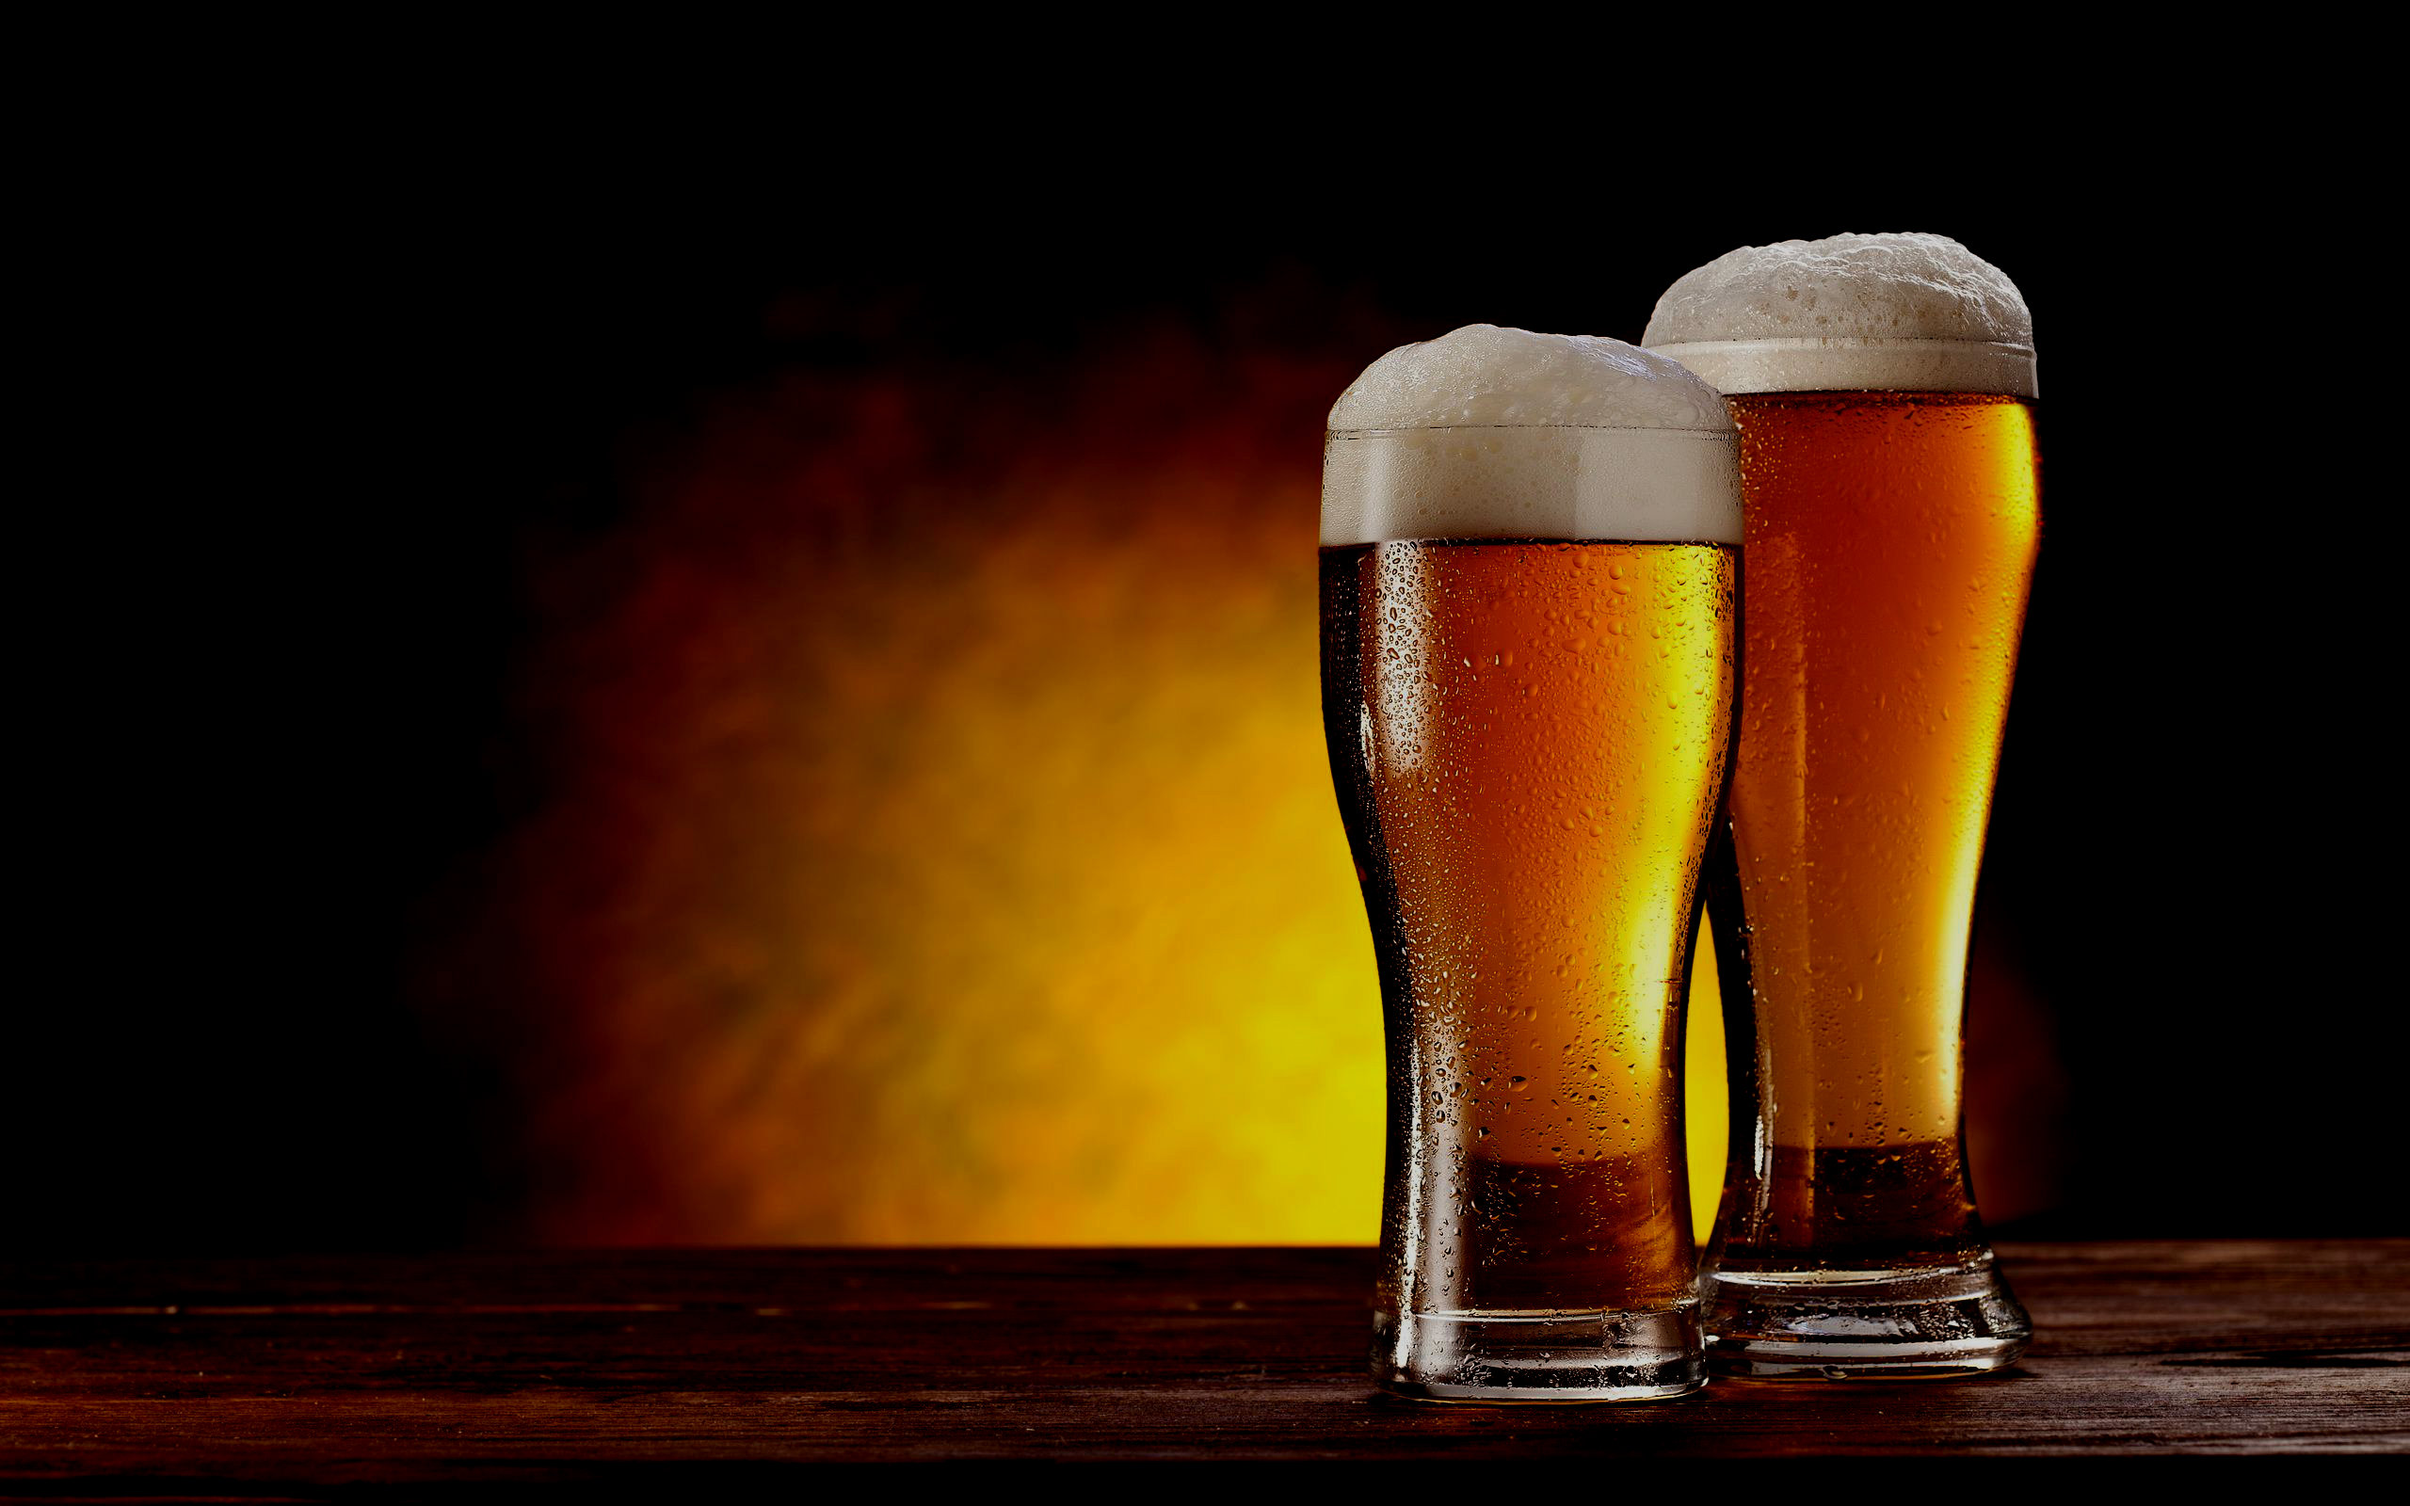
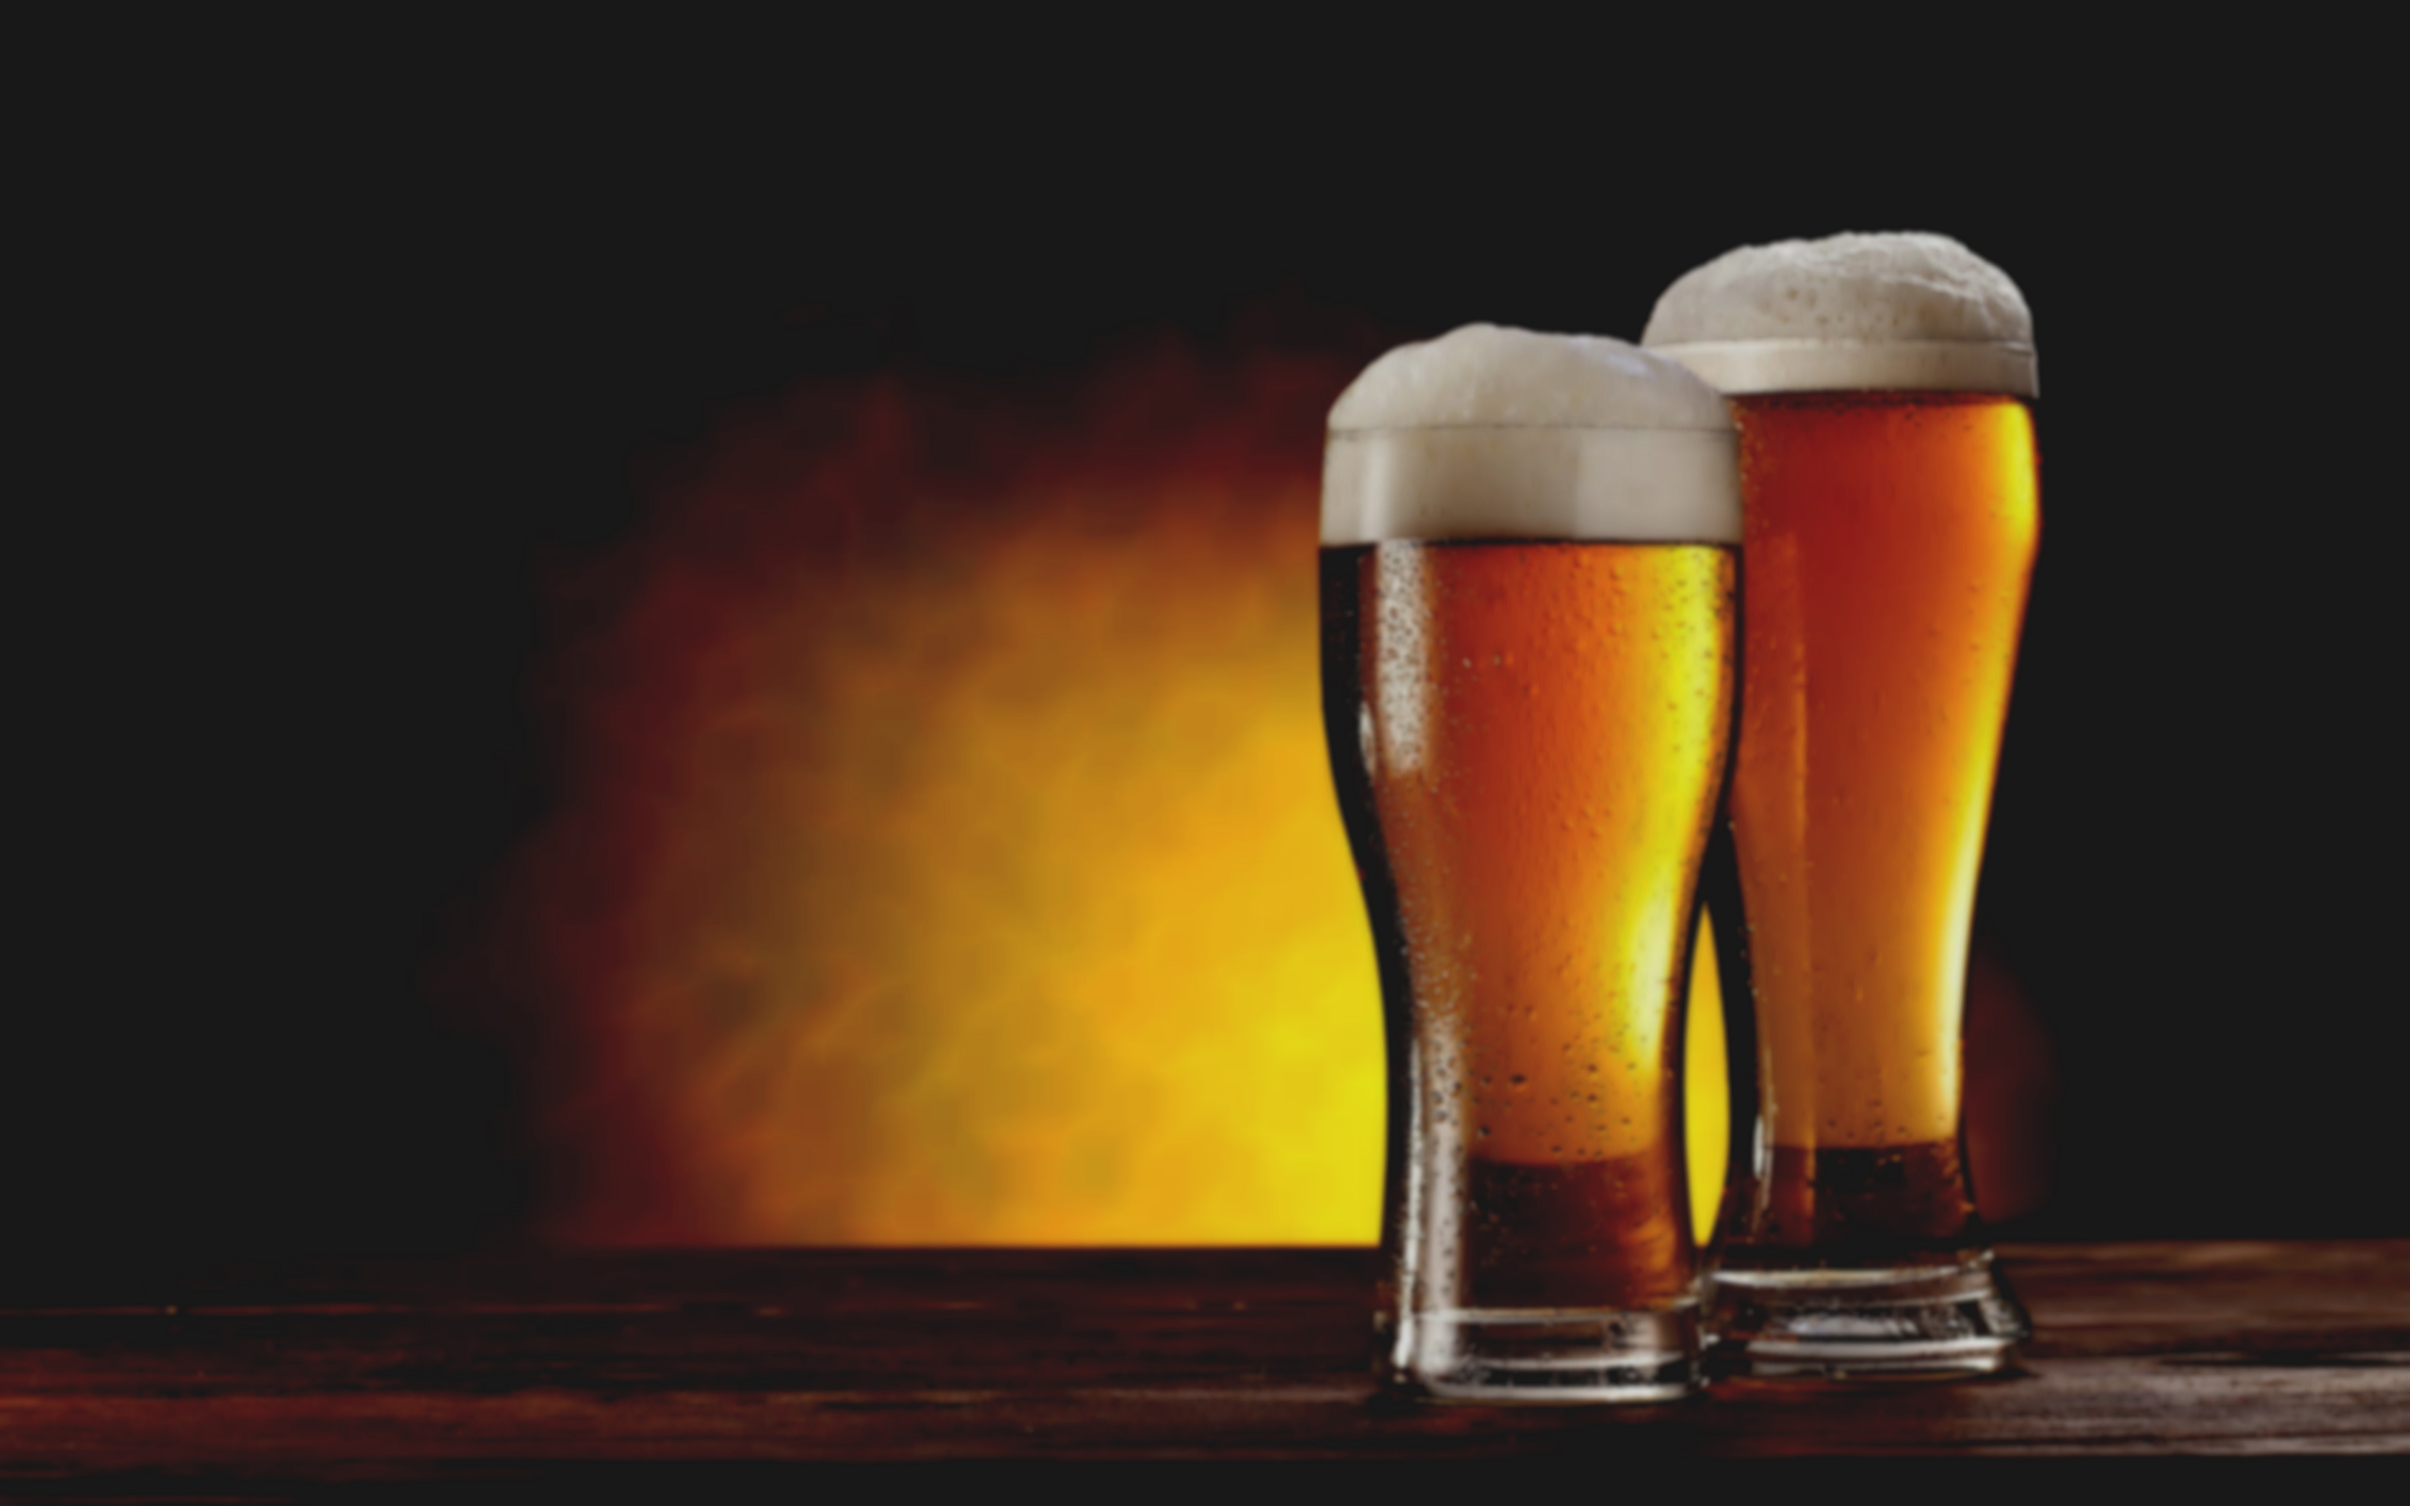
[from now] 2017/07/28 12:17:11
diff --git a/.DS_Store b/.DS_Store
index dc4c052..fda21c6 100644
Binary files a/.DS_Store and b/.DS_Store differ
diff --git a/public/assets/css/style.css b/public/assets/css/style.css
index 33f1c6f..55d9b2c 100644
--- a/public/assets/css/style.css
+++ b/public/assets/css/style.css
@@ -11,15 +11,16 @@ body {
 }

 .my-jumbotron {
-    background-color: transparent !important;
+    background-color: !important;
     color: whitesmoke;
     font-size: 25px;
     font-family: roboto mono;
     padding-bottom: 25px;
+    font-style: italic;
 }

 .btn.btn-block {
-    background-color: darkorange;
+    background-color: peru;
     color: ghostwhite;
     border-color: black;
     font-family: roboto;
@@ -29,10 +30,8 @@ body {

 h1, h2 {
     color: antiquewhite;
-    padding-top: 40px;
-    font-family: Comic sans;
+    padding-top: 45px;
     padding-bottom: 20px;
-    outline-color: ora;
 }

 .list-group-item {
diff --git a/public/assets/images/beer.jpg b/public/assets/images/beer.jpg
index a0674ac..8923d6b 100644
Binary files a/public/assets/images/beer.jpg and b/public/assets/images/beer.jpg differ
diff --git a/server.js b/server.js
index 2f2cfaa..b95ff14 100644
--- a/server.js
+++ b/server.js
@@ -3,6 +3,7 @@ const express = require('express');

 const app = express();
 const session = require('express-session');
+const nodemon = require('nodemon');
 const passport = require('passport');
 const bodyParser = require('body-parser');
[…]

Changed region(s): [[0.0, 0.125, 1.0, 0.9688]]

diff --git a/server.js b/server.js
@@ -3,6 +3,7 @@ const express = require('express');
 
 const app = express();
 const session = require('express-session');
+const nodemon = require('nodemon');
 const passport = require('passport');
 const bodyParser = require('body-parser');
 
@@ -10,7 +11,7 @@ const bodyParser = require('body-parser');
 const exphbs = require('express-handlebars');
 const path = require('path');
 
-const PORT = 8000;
+const PORT = 4000;
 
 // for including CSS
 // app.use(express.static('public'));
@@ -18,7 +19,7 @@ const PORT = 8000;
 // for BodyParser
 app.use(
   bodyParser.urlencoded({
-    extended: true,
+    extended: true
   }),
 );
 
@@ -29,7 +30,7 @@ app.use(
   session({
     secret: 'keyboard cat',
     resave: true,
-    saveUninitialized: true,
+    saveUninitialized: true
   }),
 );
 
@@ -42,7 +43,7 @@ app.set('views', './views');
 
 app.engine('handlebars', (exphbs({
   helpers: { code() { return 'WTF'; } },
-  defaultLayout: 'main',
+  defaultLayout: 'main'
 })),
 );
 

diff --git a/public/assets/css/style.css b/public/assets/css/style.css
@@ -11,15 +11,16 @@ body {
 }
 
 .my-jumbotron {
-    background-color: transparent !important;
+    background-color: !important;
     color: whitesmoke;
     font-size: 25px;
     font-family: roboto mono;
     padding-bottom: 25px;
+    font-style: italic;
 }
 
 .btn.btn-block {
-    background-color: darkorange;
+    background-color: peru;
     color: ghostwhite;
     border-color: black;
     font-family: roboto;
@@ -29,10 +30,8 @@ body {
 
 h1, h2 {
     color: antiquewhite;
-    padding-top: 40px;
-    font-family: Comic sans;
+    padding-top: 45px;
     padding-bottom: 20px;
-    outline-color: ora;
 }
 
 .list-group-item {
